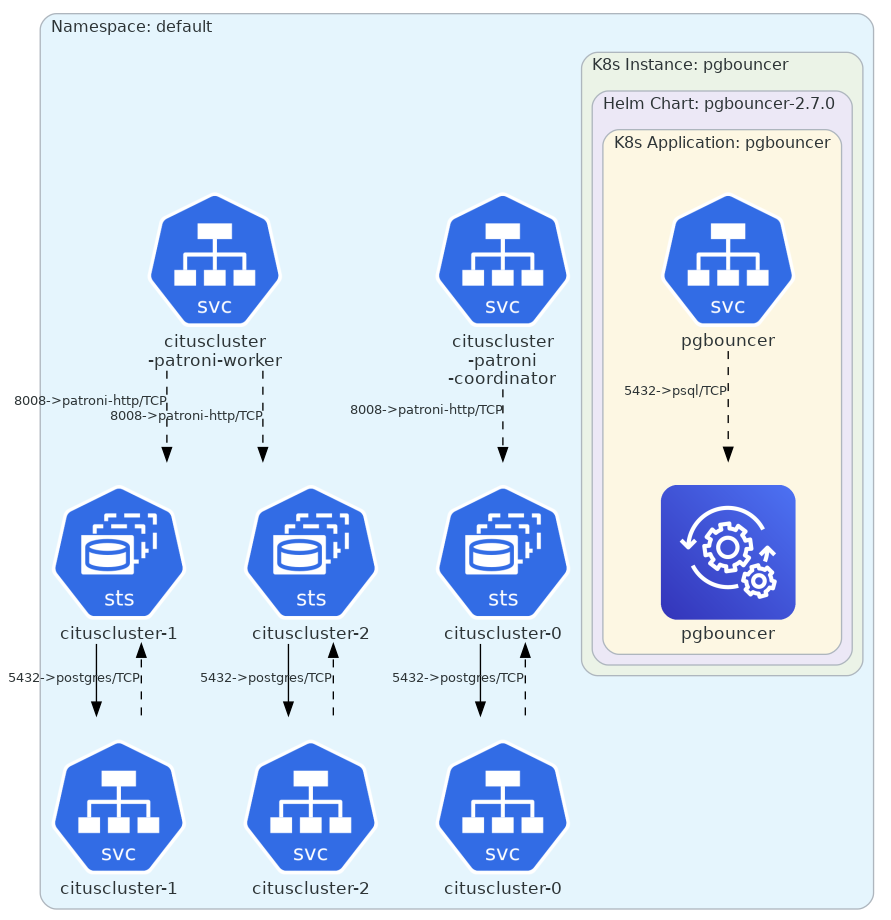
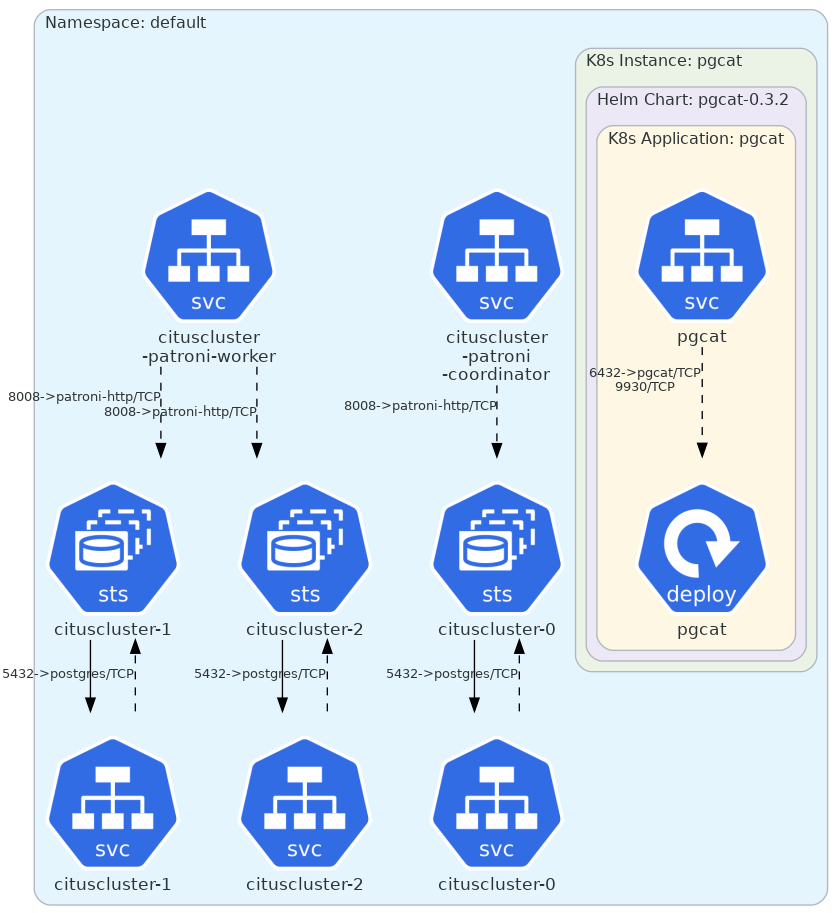
no pgbouncer

Changed region(s): [[0.0, 0.0, 0.994, 1.0], [0.1553, 0.2147, 0.3417, 0.3987], [0.0932, 0.7974, 0.1243, 0.828]]

diff --git a/document/src/chapters/chapter-4/implementasi/deployment.tex b/document/src/chapters/chapter-4/implementasi/deployment.tex
@@ -48,7 +48,7 @@ Layanan pembayaran secara umum terdiri atas deployment payment, service payment,
     \label{fig:deployment-ticket-nofc}
 \end{figure}
 
-Layanan tiket tanpa \textit{flow control} terdiri atas deployment ticket server, kluster redis, dan sanity check. Sistem ini juga terhubung dengan salah satu kluster basis data relasional yang ada melalui Pgbouncer.
+Layanan tiket tanpa \textit{flow control} terdiri atas deployment ticket server, kluster redis, dan sanity check. Sistem ini juga terhubung dengan salah satu kluster basis data relasional yang ada melalui Pgcat.
 
 \pagebreak
 
@@ -61,7 +61,7 @@ Layanan tiket tanpa \textit{flow control} terdiri atas deployment ticket server,
     \label{fig:deployment-ticket-fc}
 \end{figure}
 
-Layanan tiket dengan \textit{flow control} terdiri atas deployment ticket server, ticket-worker, kluster redis, rabbitmq, dan sanity check. Sistem ini juga terhubung dengan salah satu kluster basis data relasional yang ada melalui Pgbouncer.
+Layanan tiket dengan \textit{flow control} terdiri atas deployment ticket server, ticket-worker, kluster redis, rabbitmq, dan sanity check. Sistem ini juga terhubung dengan salah satu kluster basis data relasional yang ada melalui Pgcat.
 
 \pagebreak
 
@@ -74,7 +74,7 @@ Layanan tiket dengan \textit{flow control} terdiri atas deployment ticket server
     \label{fig:deployment-postgres}
 \end{figure}
 
-Kluster PostgreSQL terdiri atas stateful set PostgreSQL yang akan terdiri atas satu primary dan satu replica. Selain itu, terdapat dua layanan pgbouncer. Satu untuk primary dan satu lagi untuk replica. Pemisahan ini dilakukan agar sistem tiket dapat terhubung dengan basis data melalui pgbouncer dengan multihost connection string sebagaimana didukung pada libpq. Keunggulan dari pendekatan ini adalah dengan tidak diperlukannya implementasi tambahan dari sisi sistem tiket.
+Kluster PostgreSQL terdiri atas stateful set PostgreSQL yang akan terdiri atas satu primary dan satu replica. Selain itu, terdapat Pgcat yang bertindak sebagai pooler dan load balancer di level query. Pgcat akan membaca kueri dan meneruskan query kepada primary atau replica berdasarkan jenis kueri dan beban setiap instance.
 
 \pagebreak
 
@@ -87,7 +87,7 @@ Kluster PostgreSQL terdiri atas stateful set PostgreSQL yang akan terdiri atas s
     \label{fig:deployment-citusdata}
 \end{figure}
 
-Kluster CitusData terdiri atas tiga stateful set CitusCluster. Cluster pertama merupakan koordinator dan sisanya merupakan worker. Terdapat Pgbouncer yang terhubung dengan koordinator. Sistem tiket terhubung langsung dengan Pgbouncer. Koneksi dengan worker dilakukan melalui koordinator.
+Kluster CitusData terdiri atas tiga stateful set CitusCluster. Cluster pertama merupakan koordinator dan sisanya merupakan worker. Terdapat Pgcat yang terhubung dengan koordinator. Sistem tiket terhubung langsung dengan Pgcat. Koneksi dengan worker dilakukan melalui koordinator.
 
 \pagebreak
 
@@ -100,7 +100,7 @@ Kluster CitusData terdiri atas tiga stateful set CitusCluster. Cluster pertama m
     \label{fig:deployment-yugabyte}
 \end{figure}
 
-Kluster YugabyteDB terdiri atas stateful set yugabyte master, stateful set yugabyte tablet server, dan pgbouncer. Pgbouncer terhubung dengan semua instance yugabyte master. Sistem tiket terhubung langsung dengan Pgbouncer. Koneksi dengan yugabyte master di-\textit{load balance} oleh Pgbouncer.
+Kluster YugabyteDB terdiri atas stateful set yugabyte master, stateful set yugabyte tablet server, dan Pgcat. Pgcat terhubung dengan semua instance yugabyte master. Sistem tiket terhubung langsung dengan Pgcat. Koneksi dengan yugabyte master di-\textit{load balance} oleh Pgcat.
 
 \pagebreak
 

diff --git a/document/src/chapters/chapter-3/rancangan-solusi/sistem-tiket.tex b/document/src/chapters/chapter-3/rancangan-solusi/sistem-tiket.tex
@@ -24,6 +24,8 @@ Pada konfigurasi kluster PostgreSQL, klien terhubung dengan semua \textit{instan
 
 Konfigurasi kluster PostgreSQL memiliki skalabilitas yang terbatas dengan peningkatan penulisan hanya dapat dicapai dengan \textit{vertical scaling}. \textit{Throughput} penulisan CitusData dan YugabyteDB dapat ditingkatkan dengan menambah jumlah \textit{instance}, meski CitusData akan mengalami \textit{bottleneck} dari sisi koordinator.
 
+Connection pooler PGCat akan digunakan agar direct connection basis data yang terbatas dapat digunakan ulang dan dipakai oleh client yang lebih banyak. Selain itu, pada konfigurasi kluster PostgreSQL pooler ini berguna sebagai load balancer \textit{read query} antara primary dan replica.
+
 \begin{figure}[htbp]
     \centering
     \includegraphics[width=0.8\textwidth]{resources/chapter-3/ticket-fc.png}

diff --git a/document/src/chapters/chapter-4/implementasi/kakas-digunakan.tex b/document/src/chapters/chapter-4/implementasi/kakas-digunakan.tex
@@ -36,7 +36,7 @@ Kakas pengawasan ini hanya digunakan pada \textit{deployment} dengan kluster Kub
     \item Grafana Alloy untuk \textit{log collection}.
     \item Grafana Dashboard untuk \textit{visualization dashboard}.
     \item Prometheus untuk \textit{metrics collection}.
-    \item Prometheus exporter spesifik seperti PostgreSQL Prometheus exporter, Pgbouncer prometheus exporter, Node Prometheus exporter, Pod Prometheus Exporter, dan lain-lain.
+    \item Prometheus exporter spesifik seperti PostgreSQL Prometheus exporter, Node Prometheus exporter, Pod Prometheus Exporter, dan lain-lain.
 \end{enumerate}
 
 \subsubsection{Agen Penguji}

diff --git a/document/src/chapters/chapter-4/implementasi/container.tex b/document/src/chapters/chapter-4/implementasi/container.tex
@@ -17,6 +17,6 @@ Terdapat berbagai Docker image container dan Helm Chart yang digunakan untuk pro
     \item Helm chart bitnami/redis-cluster versi 11.5.3.
     \item Helm chart bitnami/rabbitmq versi 16.0.1.
     \item Helm chart yugabytedb/yugabyte versi 2024.2.2.
-    \item Helm chart icoretech/pgbouncer versi 2.7.0.
+    \item Helm chart xxl-job-admin/pgcat versi 0.3.2.
     \item Operator grafana/k6-operator versi 3.13.0.
 \end{enumerate}

diff --git a/document/src/thesis.tex b/document/src/thesis.tex
@@ -11,8 +11,8 @@
 %--------------------------------------------------------------------%
 \documentclass[bahasa, 12pt, a4paper, onecolumn, oneside, final]{report}
 
-\hyphenpenalty=5000
-\tolerance=1000
+\hyphenpenalty=100000
+\tolerance=10000
 
 \input{config/if-itb-thesis.sty}
 \input{config/hypenation-id.tex}

diff --git a/document/src/chapters/chapter-4/implementasi/dasbor-grafana.tex b/document/src/chapters/chapter-4/implementasi/dasbor-grafana.tex
@@ -1,0 +1,2 @@
+\subsection{Dasbor Grafana}
+

diff --git a/document/src/chapters/chapter-4/implementasi/diagram.md b/document/src/chapters/chapter-4/implementasi/diagram.md
@@ -1,0 +1,7 @@
+# Diagrams
+
+```bash
+helmfile template -f helmfile.yaml > anjay.yaml
+
+kube-diagrams -o postgres.png namafile.yaml
+```
